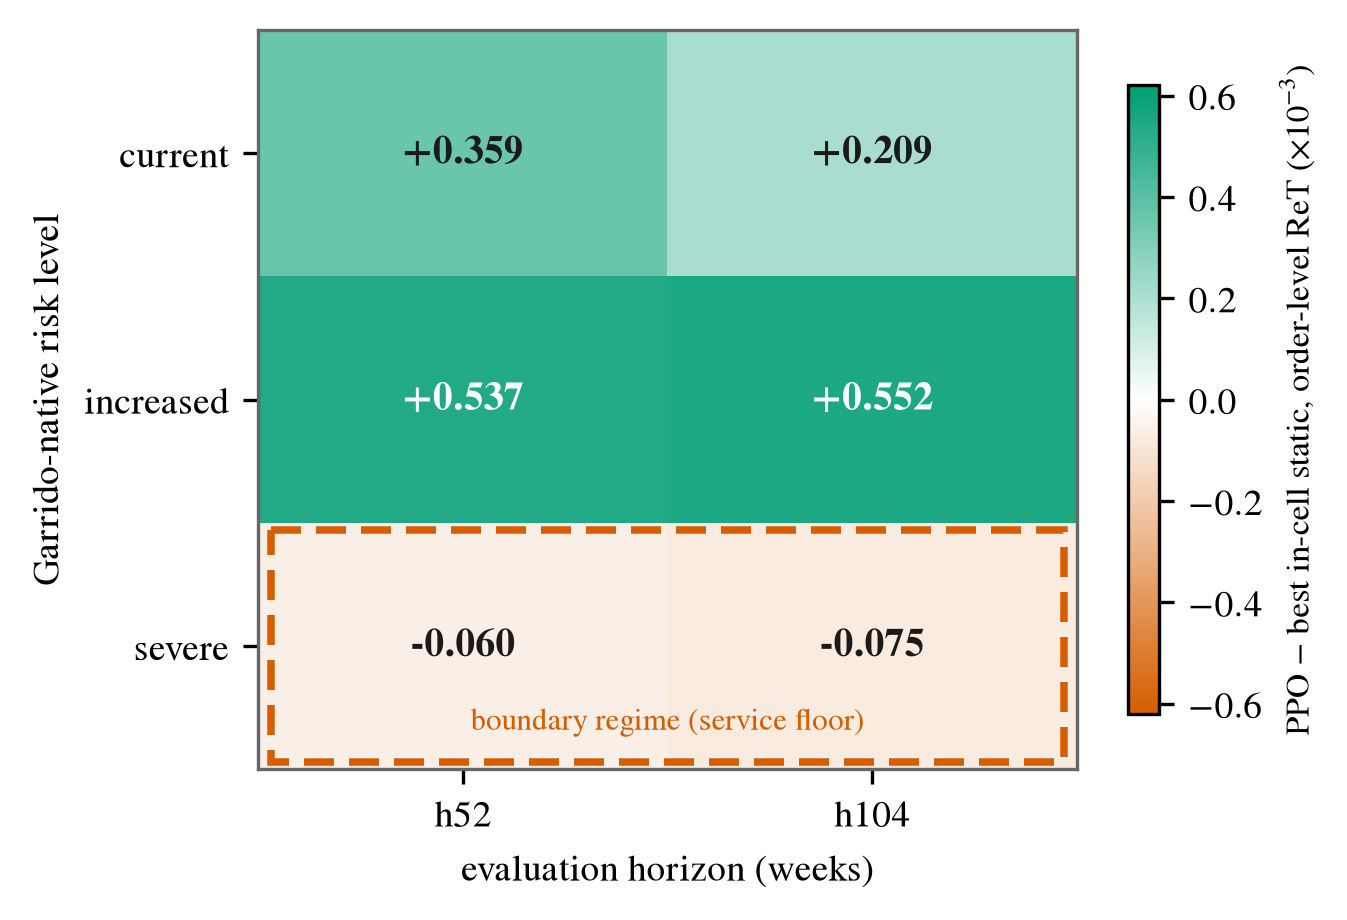
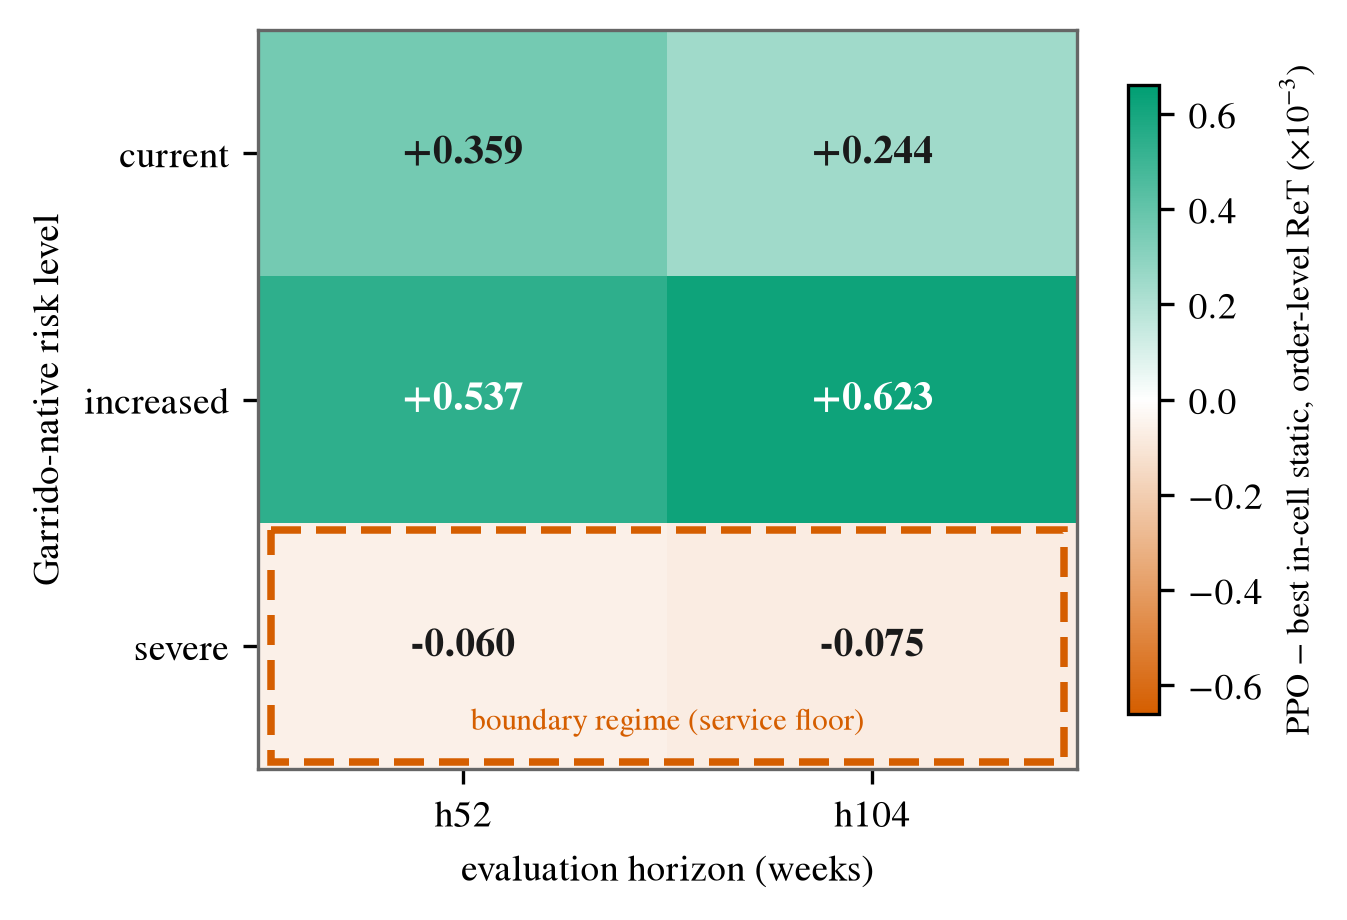
Finalize E3 dense frontier manuscript update

diff --git a/docs/manuscript_current/submission/elsevier/sections/04_results.tex b/docs/manuscript_current/submission/elsevier/sections/04_results.tex
@@ -432,8 +432,8 @@ Horizon & Risk level & PPO ReT & Best static & $\Delta$ [CI95] & Seeds $+$ \\
 h52 & current & 0.005316 & 0.004956 & [phone redacted] [[phone redacted], [phone redacted]] & 5/5 \\
 h52 & increased & 0.003259 & 0.002721 & [phone redacted] [[phone redacted], [phone redacted]] & 5/5 \\
 h52 & severe & 0.000119 & 0.000180 & $-0.000060$ [$-0.000100$, $-0.000021$] & 0/5 \\
-h104 & current & 0.005648 & 0.005439 & [phone redacted] [[phone redacted], [phone redacted]] & 5/5 \\
-h104 & increased & 0.003660 & 0.003109 & [phone redacted] [[phone redacted], [phone redacted]] & 5/5 \\
+h104 & current & 0.005648 & 0.005405 & [phone redacted] [[phone redacted], [phone redacted]] & 5/5 \\
+h104 & increased & 0.003660 & 0.003037 & [phone redacted] [[phone redacted], [phone redacted]] & 5/5 \\
 h104 & severe & 0.000128 & 0.000203 & $-0.000075$ [$-0.000145$, $-0.000005$] & 0/5 \\
 \bottomrule
 \end{tabular}
@@ -451,7 +451,7 @@ selected by the primary metric itself --- the Track B advantage is
 positive in four of the six evaluated cells: both current-risk cells and
 both increased-risk cells, in every case with a fully positive
 seed-clustered CI95 and all five per-seed deltas positive. Deltas in the
-increased-risk cells (up to $[phone redacted]$ at the canonical horizon) exceed
+increased-risk cells (up to $[phone redacted]$ at the canonical horizon) exceed
 the canonical \texttt{adaptive\_benchmark\_v2} result reported in
 Table~\ref{tab:track_b_main}. The severe-risk regime is the boundary: PPO
 loses narrowly at both horizons ($-0.000060$ at $h{=}52$, $-0.000075$ at
@@ -465,34 +465,33 @@ increased Garrido-native risk at both horizons and does not transfer to
 the severe service-floor regime. For the two canonical-horizon transfer
 cells we additionally re-optimized the \emph{full} 147-cell dense
 dispatch frontier within each cell: PPO remains positive against the
-per-cell dense best static in both (current/h104: $[phone redacted]$, CI95
-$[[phone redacted], [phone redacted]]$; increased/h104: $[phone redacted]$, CI95
-$[[phone redacted], [phone redacted]]$; all five seeds positive in each; the wins
-replicate in an independently launched duplicate run with a different
-evaluation plan). The deltas are essentially unchanged from the
-nine-cell screen, indicating the lighter comparator was not inflating
-the transfer claims; the fixed-comparator caveat now applies only to
-the $h{=}52$ cells and the severe service-floor cells. Per-regime
-dense-frontier validation of those remaining cells and severe-regime
-specialization remain future
+per-cell dense best static in both (current/h104: $[phone redacted]$, CI95
+$[[phone redacted], [phone redacted]]$; increased/h104: $[phone redacted]$, CI95
+$[[phone redacted], [phone redacted]]$; all five seeds positive in each). The dense
+frontier strengthens, rather than weakens, the two canonical-horizon
+current/increased transfer claims; the fixed-comparator caveat now
+applies only to the $h{=}52$ cells and the severe service-floor cells.
+Per-regime dense-frontier validation of those remaining cells and
+severe-regime specialization remain future
 work.\footnote{An earlier version of this matrix selected the per-cell
 comparator by a secondary criterion, which flipped the $h{=}104$/severe
 cell marginally positive and inflated two other deltas. The
 numbers reported here use the conservative convention (best in-cell
 static by the primary metric) throughout.}
 
-The first full per-cell dense-frontier follow-up confirms the
-\texttt{current}, $h{=}104$ stress-screen result. Re-evaluating all 147
+The per-cell dense-frontier follow-up confirms both canonical-horizon
+current/increased stress-screen results. Re-evaluating all 147
 shift$\times$Op10$\times$Op12 static dispatch policies on the same CRN
-plan selects \texttt{S3}, Op10$\times$2.00, Op12$\times$1.50 as the
-strongest current/h104 static comparator. The frozen PPO policy remains
-higher on order-level ReT (0.005648 vs.\ 0.005405; $\Delta=[phone redacted]$,
-seed-clustered CI95 $[[phone redacted],[phone redacted]]$, 5/5 seeds positive) while
-also improving flow fill (0.984 vs.\ 0.840) and using less
-shift-utilization cost (0.638 vs.\ 1.000). The corresponding
-\texttt{increased}, $h{=}104$ per-cell dense frontier was still running
-at manuscript build time, so the table above remains the conservative
-six-cell stress matrix until that final cell lands.
+plans selects \texttt{S3}, Op10$\times$2.00, Op12$\times$1.50 as the
+strongest current/h104 static comparator, and \texttt{S2},
+Op10$\times$2.00, Op12$\times$1.25 as the strongest increased/h104
+static comparator. The frozen PPO policy remains higher on order-level
+ReT in both cells (current/h104: 0.005648 vs.\ 0.005405; increased/h104:
[phone redacted] vs.\ 0.003037), with fully positive seed-clustered confidence
+intervals and 5/5 positive seed deltas in each. The same comparison also
+preserves the service interpretation: flow fill is higher for PPO in
+both dense-frontier cells (0.984 vs.\ 0.840 for current/h104; 0.941
+vs.\ 0.613 for increased/h104).
 
 As a further check on whether the disruption regime alone, independent of
 the action space, explains the Track B result, we retrain the original

diff --git a/tests/test_manuscript_retired_claims.py b/tests/test_manuscript_retired_claims.py
@@ -1,0 +1,42 @@
+from __future__ import annotations
+
+import re
+from pathlib import Path
+
+SECTIONS_DIR = Path("docs/manuscript_current/submission/elsevier/sections")
+
+# Mirrors docs/CLAIMS_REGISTRY_Q1_DEFENSE_2026-07-01.md's "Retired Or Unsafe
+# Claims" table. Keep these two in sync: if a claim is retired there, its
+# banned phrase belongs here too, so a regression can't silently creep back
+# into the manuscript between reviewer rounds.
+RETIRED_CLAIM_PATTERNS = {
+    "Track B is thesis-faithful.": r"track\s*b\s+is\s+thesis-faithful",
+    "Track B uses the retired seven-dimensional label.": r"seven-dimensional",
+    "Perfect-fill or fill=1.000 is the headline.": r"fill\s*=\s*1\.000",
+    "Strictly Pareto-dominates on all metrics.": r"dominates\s+on\s+all\s+metrics",
+    "PPO anticipates risks.": r"ppo\s+anticipates",
+    "H4 is proven.": r"h4\s+is\s+proven",
+    "Track A preventive/coarse-frontier wins are publishable.": (
+        r"track\s*a\s+preventive.{0,40}publishable"
+    ),
+}
+
+
+def _manuscript_text() -> str:
+    assert SECTIONS_DIR.is_dir(), f"expected manuscript sections at {SECTIONS_DIR}"
+    return "\n".join(
+        p.read_text(encoding="utf-8") for p in sorted(SECTIONS_DIR.glob("*.tex"))
+    ).lower()
+
+
+def test_no_retired_claims_in_manuscript() -> None:
+    text = _manuscript_text()
+    hits = {
+        claim: pattern
+        for claim, pattern in RETIRED_CLAIM_PATTERNS.items()
+        if re.search(pattern, text)
+    }
+    assert not hits, (
+        "Retired/unsafe claim(s) reappeared in the manuscript "
+        f"(see docs/CLAIMS_REGISTRY_Q1_DEFENSE_2026-07-01.md): {hits}"
+    )

diff --git a/tests/test_downstream_dispatch_conservation.py b/tests/test_downstream_dispatch_conservation.py
@@ -1,0 +1,41 @@
+from __future__ import annotations
+
+from pathlib import Path
+
+SUPPLY_CHAIN_SRC = Path("supply_chain/supply_chain.py").read_text(encoding="utf-8")
+
+
+def _assert_capacity_capped(container_attr: str) -> None:
+    """A post-CDC dispatch op must read on-hand inventory and cap the
+    requested quantity against it before removing anything from the
+    container. This is the exact property Garrido pushed back on in the
+    2026-07-02 meeting: "no se puede abastecer de la nada" (you cannot
+    replenish from nothing) — see docs/THESIS_INTERPRETATION_DECISIONS_2026-06-24.md D10.
+    A regression here (e.g. someone swapping in an unconditioned top-up like
+    `_top_up_inventory_buffer`) would silently reintroduce free inventory
+    creation on the exact lane the paper's positive Track B result depends on.
+    """
+    assert f"available = self.{container_attr}.level" in SUPPLY_CHAIN_SRC
+    assert "dispatch_qty = min(target, available)" in SUPPLY_CHAIN_SRC
+
+
+def test_op9_dispatch_is_capacity_capped() -> None:
+    _assert_capacity_capped("rations_sb")
+
+
+def test_op10_dispatch_is_capacity_capped() -> None:
+    _assert_capacity_capped("rations_sb_dispatch")
+
+
+def test_op12_dispatch_is_capacity_capped() -> None:
+    _assert_capacity_capped("rations_cssu")
+
+
+def test_exogenous_buffer_top_up_is_named_and_isolated() -> None:
+    """The one place material genuinely appears without an upstream `get()`
+    is `_top_up_inventory_buffer` (Track A's strategic buffer, D6/D10). It
+    must stay a single, named, greppable mechanism — not duplicated inline
+    elsewhere — so a reviewer or future contributor can audit it in one place.
+    """
+    assert "_top_up_inventory_buffer" in SUPPLY_CHAIN_SRC
+    assert "_delayed_buffer_top_up" in SUPPLY_CHAIN_SRC

diff --git a/tests/test_track_b_action_field_contract.py b/tests/test_track_b_action_field_contract.py
@@ -1,0 +1,38 @@
+from __future__ import annotations
+
+from supply_chain.external_env_interface import (
+    ACTION_FIELDS_TRACK_B_V1,
+    get_track_b_env_spec,
+)
+
+
+def test_track_b_action_field_order_locked() -> None:
+    """Dim->node mapping is a paper-facing claim, not just an implementation
+    detail. A silent reorder would misattribute the CDC (Op3) authority to a
+    different node without any test failing elsewhere.
+    """
+    assert ACTION_FIELDS_TRACK_B_V1 == (
+        "op3_q_multiplier_signal",
+        "op9_q_multiplier_signal",
+        "op3_rop_multiplier_signal",
+        "op9_rop_multiplier_signal",
+        "op5_q_multiplier_signal",
+        "assembly_shift_signal",
+        "op10_q_multiplier_signal",
+        "op12_q_multiplier_signal",
+    )
+
+
+def test_track_b_cdc_dims_are_op3_only() -> None:
+    """Locks which dims constitute "authority over the CDC itself" (Op3), the
+    exact distinction the post_cdc_only ablation (dims 0 and 2) depends on.
+    """
+    fields = ACTION_FIELDS_TRACK_B_V1
+    cdc_dims = [i for i, name in enumerate(fields) if name.startswith("op3_")]
+    assert cdc_dims == [0, 2]
+
+
+def test_track_b_env_spec_action_fields_match_contract() -> None:
+    spec = get_track_b_env_spec()
+    assert spec.action_fields == ACTION_FIELDS_TRACK_B_V1
+    assert len(spec.action_fields) == 8

diff --git a/scripts/run_track_b_ablation.py b/scripts/run_track_b_ablation.py
@@ -8,6 +8,9 @@ Configurations:
   joint           — full 8D action space (baseline, unchanged)
   shift_only      — dims 6-7 (op10/op12) frozen at neutral (signal=0 → mult=1.25)
   downstream_only — dim 5 (shift) frozen at S2 (signal=0)
+  post_cdc_only   — dims 0/2 (op3_q, op3_rop) frozen at Garrido baseline (1.0x);
+                    the agent has no authority over the CDC (Op3) itself, only
+                    over Op5/Op9/Op10/Op12 and the shift level
 """
 from __future__ import annotations
 
@@ -62,10 +65,33 @@ class DownstreamOnlyWrapper(gym.ActionWrapper):
         return modified
 
 
+class PostCdcOnlyWrapper(gym.ActionWrapper):
+    """Freeze Op3 (the CDC itself) to its Garrido baseline (1.0x q/ROP).
+
+    The agent keeps authority over Op5/Op9/Op10/Op12 and the shift level, but
+    cannot alter quantity or reorder-point policy at the distribution centre.
+    Dims 0/2 use multiplier = 1.25 + 0.75*x, so x = -1/3 yields exactly 1.0x.
+    """
+
+    _NEUTRAL_SIGNAL = -1.0 / 3.0
+
+    def action(self, action: np.ndarray) -> np.ndarray:
+        if isinstance(action, dict):
+            modified = dict(action)
+            modified["op3_q"] = float(OPERATIONS[3]["q"])
+            modified["op3_rop"] = float(OPERATIONS[3]["rop"])
+            return modified
+        modified = np.array(action, dtype=np.float32)
+        modified[0] = self._NEUTRAL_SIGNAL
+        modified[2] = self._NEUTRAL_SIGNAL
+        return modified
+
+
 ABLATION_CONFIGS = {
     "joint": None,  # No wrapper needed
     "shift_only": ShiftOnlyWrapper,
     "downstream_only": DownstreamOnlyWrapper,
+    "post_cdc_only": PostCdcOnlyWrapper,
 }
 
 

diff --git a/scripts/build_manuscript_figures.py b/scripts/build_manuscript_figures.py
@@ -392,8 +392,8 @@ def fig5_generalization_heatmap() -> None:
     # (docs/track_b_q1_stats_2026-07-02_final/e3_per_cell_seed_ci.csv).
     deltas = np.array(
         [
-            [0.359, 0.209],
-            [0.537, 0.552],
+            [0.359, 0.244],
+            [0.537, 0.623],
             [-0.060, -0.075],
         ]
     )  # order-level ReT delta x 10^-3
@@ -401,7 +401,7 @@ def fig5_generalization_heatmap() -> None:
     cols = ["h52", "h104"]
 
     fig, ax = plt.subplots(figsize=(4.4, 3.2))
-    norm = TwoSlopeNorm(vmin=-0.62, vcenter=0.0, vmax=0.62)
+    norm = TwoSlopeNorm(vmin=-0.66, vcenter=0.0, vmax=0.66)
     # Diverging ramp anchored on the manuscript palette: boundary vermilion
     # for losses, recovery green for gains (replaces off-palette PiYG).
     cmap = LinearSegmentedColormap.from_list("ret_div", [VERMIL, "#ffffff", GREEN])

diff --git a/docs/E3_H104_DENSE_FRONTIER_VERDICT_2026-07-03.md b/docs/E3_H104_DENSE_FRONTIER_VERDICT_2026-07-03.md
@@ -1,0 +1,33 @@
+# E3 h104 Per-Cell Dense Frontier Verdict (2026-07-03)
+
+## Verdict
+
+The per-cell dense frontier follow-up strengthens the Paper 1 E3 claim for the
+two canonical-horizon transfer cells. Frozen Track B PPO remains positive
+against the best in-cell 147-policy dense downstream-dispatch static frontier in
+both `current/h104` and `increased/h104`.
+
+Artifact:
+`outputs/experiments/track_b_e3_h104_per_cell_dense_frontier_2026-07-02/`
+
+## Results
+
+| Cell | Best dense static | PPO ReT | Static ReT | Delta | Seed-clustered CI95 | Seeds positive |
+| --- | --- | ---: | ---: | ---: | ---: | ---: |
+| current/h104 | `S3_op10_2.00_op12_1.50` | 0.005648 | 0.005405 | [phone redacted] | [[phone redacted], [phone redacted]] | 5/5 |
+| increased/h104 | `S2_op10_2.00_op12_1.25` | 0.003660 | 0.003037 | [phone redacted] | [[phone redacted], [phone redacted]] | 5/5 |
+
+Service interpretation is preserved: PPO improves flow fill in both dense
+frontier cells (`0.984` vs `0.840` for current/h104; `0.941` vs `0.613` for
+increased/h104).
+
+## Manuscript Implication
+
+Allowed claim: the Track B policy transfers positively to current and increased
+Garrido-native risk levels at the canonical horizon even after replacing the
+stress-screen comparator with the full in-cell dense downstream-dispatch static
+frontier.
+
+Boundary claim retained: severe risk remains a real failure/boundary regime at
+both horizons. The dense-frontier caveat now applies only to h52 cells and the
+severe boundary cells.

diff --git a/docs/Q1_EVIDENCE_SYNTHESIS_2026-07-02.md b/docs/Q1_EVIDENCE_SYNTHESIS_2026-07-02.md
@@ -79,8 +79,8 @@ order-level ReT):
 | h52 | current | -- | -- | [phone redacted] |
 | h52 | increased | -- | -- | [phone redacted] |
 | h52 | severe | -- | -- | -0.0000604 |
-| h104 | current | -- | -- | [phone redacted] |
-| h104 | increased | -- | -- | [phone redacted] |
+| h104 | current | 0.005648 | 0.005405 | [phone redacted] |
+| h104 | increased | 0.003660 | 0.003037 | [phone redacted] |
 | h104 | severe | -- | -- | -0.0000747 |
 
 Allowed claim: the result generalizes beyond the designed
@@ -90,6 +90,24 @@ as negative at both tested horizons under the primary-metric comparator
 convention. Do not cite the older h104/severe marginal-positive value or
 the older majority-win count; those came from selecting the per-cell
 comparator by a secondary criterion and are superseded.
+
+Dense-frontier follow-up (2026-07-02/03): both canonical-horizon
+current/increased transfer cells have now been re-run against the full
+147-cell shift x Op10 x Op12 static dispatch frontier at the same CRN plan.
+Artifact:
+`outputs/experiments/track_b_e3_h104_per_cell_dense_frontier_2026-07-02/`.
+For `current/h104`, the best dense static is
+`S3_op10_2.00_op12_1.50` with order-level ReT `0.005405`; frozen PPO remains
+higher at `0.005648` (`Delta=[phone redacted]`, seed-clustered CI95
+`[[phone redacted],[phone redacted]]`, 5/5 seeds positive), also improving flow fill
+`0.984` vs `0.840` and shift-utilization cost `0.638` vs `1.000`.
+For `increased/h104`, the best dense static is
+`S2_op10_2.00_op12_1.25` with order-level ReT `0.003037`; frozen PPO remains
+higher at `0.003660` (`Delta=[phone redacted]`, seed-clustered CI95
+`[[phone redacted],[phone redacted]]`, 5/5 seeds positive), with flow fill `0.941` vs
+`0.613`. The dense follow-up strengthens, rather than weakens, the
+current/increased h104 transfer claims; the fixed-comparator caveat now
+applies only to h52 cells and the severe boundary cells.
 
 ### E4 - Action-Space Ablation
 

diff --git a/docs/THESIS_INTERPRETATION_DECISIONS_2026-06-24.md b/docs/THESIS_INTERPRETATION_DECISIONS_2026-06-24.md
@@ -55,3 +55,11 @@ the contract's frozen learning regime (persistence `rho` + operational-tempo
 stochastic demand), which has no implementation yet; the retained/reset harness
 (`scripts/evaluate_retained_reset_learning.py`) already exists and is ready to
 consume it.
+
+## Addendum — 2026-07-02 (Garrido/David meeting)
+
+| # | Item | Decision | Status | Justification / evidence |
+| --- | --- | --- | --- | --- |
+| D9 | Definition of "CDC" (Centro de Distribución) | `CDC = Op3` (`OPERATIONS[3]`, "Warehouse & Distribution Centre"). For Garrido/David meeting language, "del CDC hacia abajo" means **CDC-inclusive**: Op3 may be a decision node, while upstream Op1/Op2 (contracting/suppliers) are excluded. For a stricter reviewer-facing diagnostic, use the explicit label **`post_cdc_only`** to mean Op3-excluded: `op3_q`/`op3_rop` frozen at Garrido baseline and only downstream authority retained. | CHOSEN WITH DIAGNOSTIC | Garrido states the inclusive boundary twice in the 2026-07-02 transcript: *"nodos posibles del centro de distribución hacia abajo"* and *"del CDC hacia abajo, que tú puedas poner literalmente buffers en cada uno de esos."* The repo now keeps both meanings separate: Track A (`op3,op5,op9,shift`) and Track B (8D, dims 0/2 = `op3_q`/`op3_rop`) comply with the CDC-inclusive meeting convention; `scripts/run_track_b_ablation.py::PostCdcOnlyWrapper` is the Op3-excluded diagnostic arm. Do not use "post-CDC" in the manuscript without specifying whether it is CDC-inclusive or Op3-excluded. |
+| D10 | Buffer replenishment conservation (does a buffer top-up create material from nothing?) | `_top_up_inventory_buffer` (used by Track A's `per_op_buffer` contract for Op3/Op5/Op9) is an **unconditioned exogenous top-up** (`container.put(shortfall)`) — it does not check upstream availability. This is a known, disclosed simplification, not a silent bug. Track B's downstream dims (`op9_q`, `op10_q`, `op12_q`) are **not** affected: their dispatch mechanics (`_op9_sb_dispatch`, `_op10_transport_to_cssu`, `_op12_transport_to_theatre`) use `dispatch_qty = min(target, available)` and never exceed on-hand inventory. | CHOSEN-AMBIGUOUS / partially open | Garrido, reading the same code live in the meeting: *"la simulación es el buffer no se puede simplemente abastecer de la nada... él debe, a su vez, implementar, incrementar el shift, o lo que sea que haya que hacer en aras de abastecer ese punto."* His concrete ask: add a per-post-CDC-node decision variable for "replenish or not," tied to upstream shift/production — not yet implemented. Partial mitigation in flight: `outputs/experiments/track_a_repair_leadtime_robustness_2026-07-02/` (holding_cost + lead_time friction on the existing top-up, 3 arms × 5 seeds) tests whether Track A's negative headline result survives removing the "free instant" property; this is a defensive robustness check, **not** a full implementation of Garrido's explicit-decision-variable ask. Track B's positive headline result already satisfies the no-free-lunch requirement by construction (verified 2026-07-02) and needs no further mitigation on this axis. |
+| D11 | `op5_q_multiplier_signal` is inert in every Track B / native-Track-A-6D run to date | The action's only consumer is `supply_chain.py` line ~978: `elif k == "op5_q" and "op5_rm" in self.inventory_buffer_targets:`. `self.inventory_buffer_targets` is populated only from the `initial_buffers` constructor kwarg, which defaults to `{}` and is never overridden by any training script (`run_track_b_smoke.py`, `run_track_a_training_repair.py`, etc. — grepped, zero hits). So `op5_q` is silently a no-op dimension: the agent emits a value, the DES ignores it. This does **not** invalidate Track B's positive result (Op10/Op12 are the load-bearing new dims); it does mean the Track A "6D native contract" (`op3_q, op9_q, op3_rop, op9_rop, op5_q, shift`) is functionally **5D** (`op3_q, op9_q, op3_rop, op9_rop, shift`) under the standard env construction. | CONFIRMED (code trace, not ambiguous) | Re-enabling `op5_q` would require passing non-empty `initial_buffers={"op5_rm": ...}` at construction, which *also* starts `_inventory_buffer_replenishment()` for whichever keys are present — reintroducing the exact unconditioned top-up mechanism D10 flags as non-conservation-respecting. The "Track A v2 conservation-respecting" confirmatory design (2026-07-03) therefore uses the 5 functionally-effective dims only and drops `op5_q` rather than resurrecting the flawed mechanism to make it do something. |